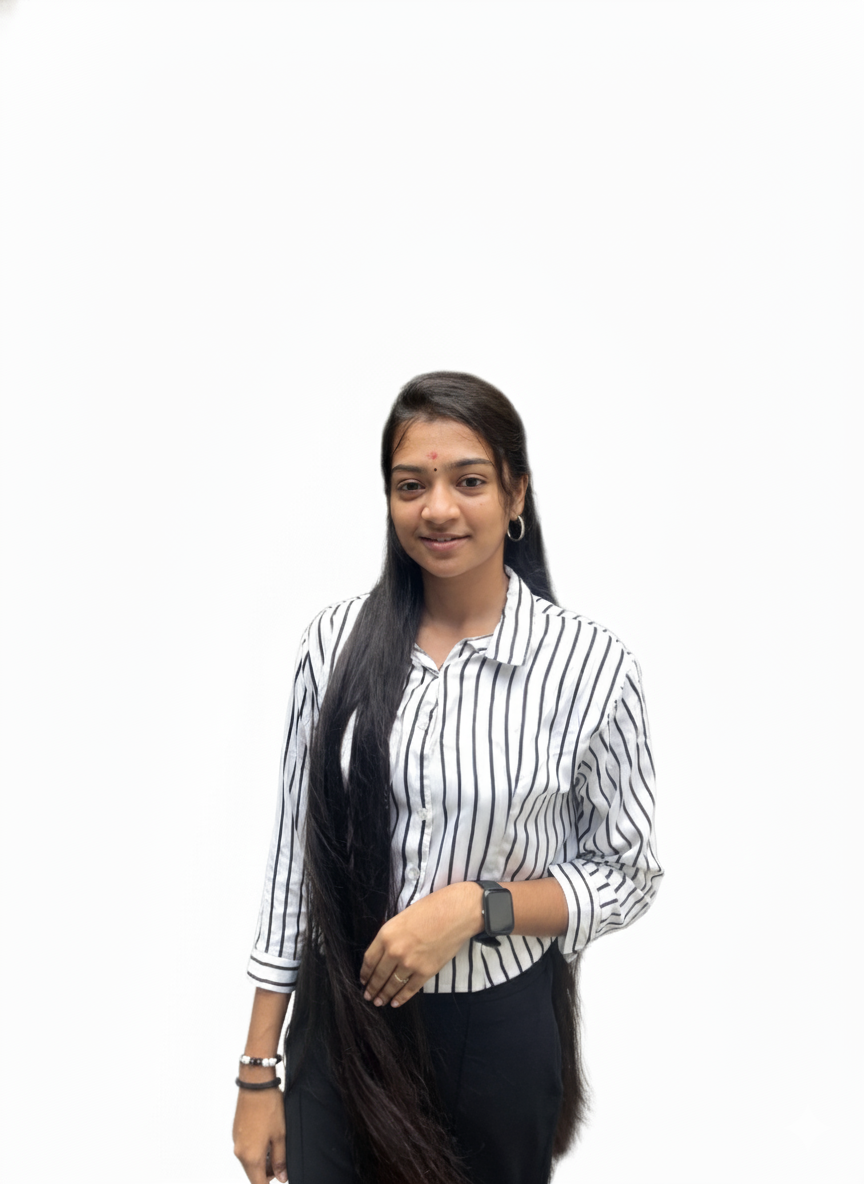
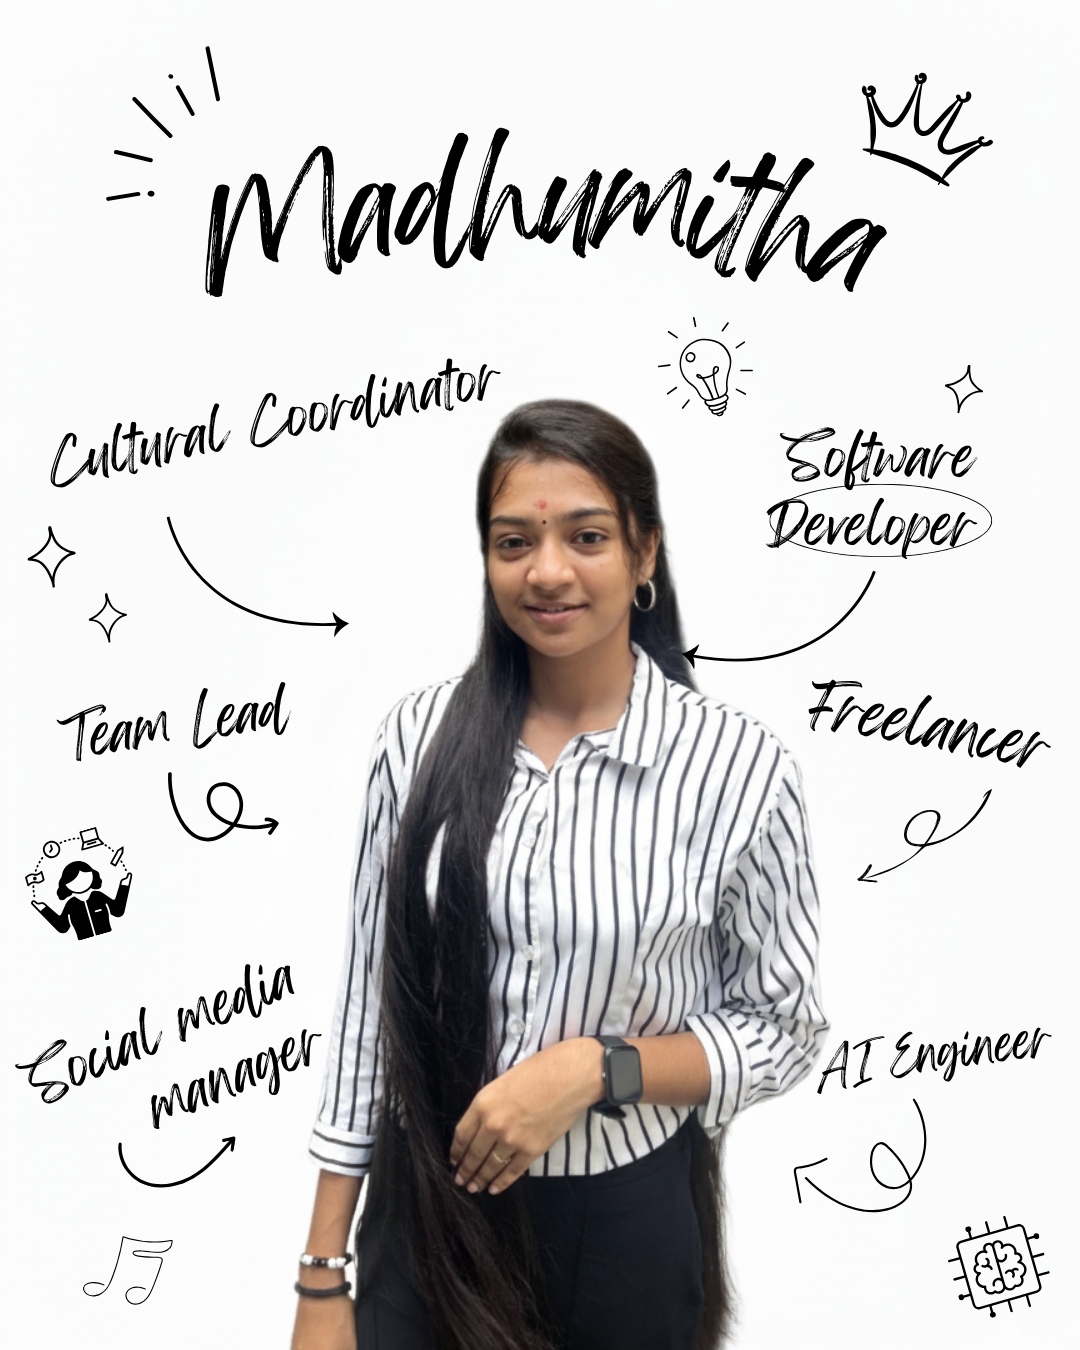
about

diff --git a/client/src/components/sections/About.js b/client/src/components/sections/About.js
@@ -136,13 +136,7 @@ const About = () => {
       <div className="max-w-7xl mx-auto">
         <div className="grid lg:grid-cols-2 gap-16 items-center">
           {/* LEFT SIDE - Image with Dynamic Doodles */}
-          <motion.div
-            initial={{ opacity: 0, x: -50 }}
-            whileInView={{ opacity: 1, x: 0 }}
-            viewport={{ once: true }}
-            transition={{ duration: 0.6 }}
-            className="relative flex justify-center"
-          >
+         
             {/* Profile Image Container */}
             <motion.div
               initial={{ scale: 0.8, opacity: 0 }}
@@ -156,55 +150,7 @@ const About = () => {
                 className="w-full h-auto object-cover rounded-3xl shadow-soft"
               />
               
-         {/* Dynamic Floating Doodles – reference style */}
-{highlights.map((highlight, index) => {
-  const slots = [
-    // top‑left
-    "absolute top-10 left-4 max-w-[130px]",
-    // mid‑left
-    "absolute top-1/2 -translate-y-1/2 left-0 max-w-[130px]",
-    // bottom‑left
-    "absolute bottom-10 left-8 max-w-[140px]",
-    // top‑right
-    "absolute top-10 right-4 max-w-[140px]",
-    // mid‑right
-    "absolute top-1/2 -translate-y-1/2 right-0 max-w-[140px]",
-    // bottom‑right
-    "absolute bottom-10 right-4 max-w-[150px]",
-  ];
-  const pos = slots[index % slots.length];
-
-  // small stroke decoration like in reference
-  const strokeVariants = [
-    "w-6 h-6 border-t-2 border-l-2 border-[color:var(--color-text)]",
-    "w-7 h-7 border-t-2 border-[color:var(--color-text)] rounded-full",
-    "w-8 h-4 border-b-2 border-[color:var(--color-text)]",
-    "w-5 h-5 border-r-2 border-b-2 border-[color:var(--color-text)]",
-  ];
-  const stroke = strokeVariants[index % strokeVariants.length];
-
-  return (
-    <motion.div
-      key={index}
-      animate={{ y: [0, -2, 0] }}
-      transition={{ duration: 2.5 + index * 0.2, repeat: Infinity }}
-      className={pos}
-      style={{ fontFamily: "'Caveat', cursive" }}
-    >
-      <div className="flex flex-col gap-1">
-        {/* text – DB highlight */}
-        <span className="text-[color:var(--color-text)] text-[15px] leading-snug drop-shadow-sm">
-          {highlight}
-        </span>
-        {/* small stroke / doodle */}
-        <div className={stroke} />
-      </div>
-    </motion.div>
-  );
-})}
-
            
-            </motion.div>
           </motion.div>
 
           {/* RIGHT SIDE - Heading, Description & CTA */}
